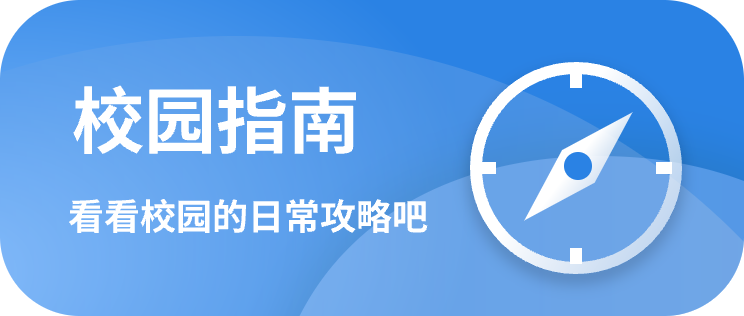
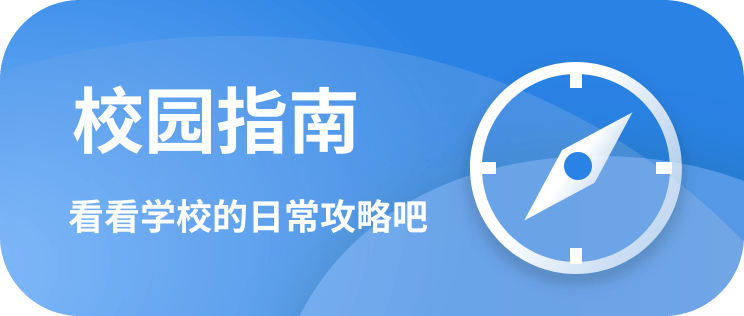
校园指南 新增和修改前，校验是否有内容；替换了按钮图片

Changed region(s): [[0.1855, 0.6266, 0.3091, 0.7405]]

diff --git a/地图参数获取工具/pages/map/map.js b/地图参数获取工具/pages/map/map.js
@@ -101,7 +101,7 @@ Page({
 
     this.mapCtx = wx.createMapContext('map')
     
-    var boundary = this.data.boundary
+    // var boundary = this.data.boundary
     // this.mapCtx.setBoundary({
     //   southwest: { //西南角
     //     latitude: boundary.southwest_latitude,
@@ -149,7 +149,8 @@ Page({
       return;
     }
     scale += 0.1;
-    console.log("地图缩放级别放大了0.1，现在是", scale.toFixed(2))
+    scale = parseFloat(scale.toFixed(2))
+    console.log("地图缩放级别放大了0.1，现在是", scale)
     this.setData({
       scale: scale
     });
@@ -162,7 +163,8 @@ Page({
       return;
     }
     scale -= 0.1;
-    console.log("地图缩放级别减小了0.1，现在是", scale.toFixed(2))
+    scale = parseFloat(scale.toFixed(2))
+    console.log("地图缩放级别减小了0.1，现在是", scale)
     this.setData({
       scale: scale
     });
@@ -411,7 +413,7 @@ Page({
     // 获取当前地图的视野范围
     this.mapCtx.getRegion({
       success(res) {
-        var boundary_data = "//西南角" + '\n' + "southwest_latitude: " + res.southwest.latitude.toFixed(6) + "," + '\n' + "southwest_longitude: " + res.southwest.longitude.toFixed(6) + "," + '\n' + "//东北角" + '\n' + "northeast_latitude: " + res.northeast.latitude.toFixed(6) + "," + '\n' + "northeast_longitude: " + res.northeast.longitude.toFixed(6) + ","
+        var boundary_data = "// 西南角" + '\n' + "southwest_latitude: " + res.southwest.latitude.toFixed(6) + "," + '\n' + "southwest_longitude: " + res.southwest.longitude.toFixed(6) + "," + '\n' + "// 东北角" + '\n' + "northeast_latitude: " + res.northeast.latitude.toFixed(6) + "," + '\n' + "northeast_longitude: " + res.northeast.longitude.toFixed(6) + ","
 
         // console.log("当前地图的边界" + '\n' + boundary_data)
 
@@ -424,12 +426,12 @@ Page({
     // 获取当前地图的缩放级别
     this.mapCtx.getScale({
       success(res) {
-        var scale_data = "scale: " + res.scale + ","
+        var scale_data = "scale: " + res.scale.toFixed(1) + ","
         // console.log("当前地图的缩放级别" + '\n' + scale_data)
         // console.log("\n")
 
         that.setData({
-          scale: res.scale,
+          // scale: res.scale,
           scale_data: scale_data
         });
       }

diff --git a/云开发项目/pages/admin/schoolguide-list/schoolguide/schoolguide.js b/云开发项目/pages/admin/schoolguide-list/schoolguide/schoolguide.js
@@ -195,7 +195,7 @@ Page({
     },
 
     addschoolguide() {
-      if (this.data.title != null && this.data.title != "") {
+      if (this.data.title != null && this.data.title != "" && this.data.content != null && this.data.content != "") {
         let keywords = this.data.keywords.map(item => {
           return item.name
         })
@@ -232,7 +232,7 @@ Page({
     },
   
     updateschoolguide() {
-      if (this.data.title != null && this.data.title != "") {
+      if (this.data.title != null && this.data.title != "" && this.data.content != null && this.data.content != "") {
         let keywords = this.data.keywords.map(item => {
           return item.name
         })

diff --git a/云开发项目/pages/school/guidance/guidance.js b/云开发项目/pages/school/guidance/guidance.js
@@ -75,13 +75,14 @@ Page({
   },
 
   search() {
-    console.log('search', this.data.inputValue)
+    let inputValue = this.data.inputValue || ''
+    console.log('search', inputValue)
     wx.showLoading({
       title: '搜索中',
     })
     var res = []
     for (const i of this.data.allWords) {
-      if (i.title.indexOf(this.data.inputValue) != -1 || i.content.indexOf(this.data.inputValue) != -1 || i.keywords.indexOf(this.data.inputValue) != -1) {
+      if (i.title.indexOf(inputValue) != -1 || i.content.indexOf(inputValue) != -1 || i.keywords.indexOf(inputValue) != -1) {
         res.push(i)
       }
     }

diff --git a/静态项目/pages/school/guidance/guidance.js b/静态项目/pages/school/guidance/guidance.js
@@ -59,13 +59,14 @@ Page({
 	},
 
 	search() {
-		console.log('search', this.data.inputValue)
+		let inputValue = this.data.inputValue || ''
+		console.log('search', inputValue)
 		wx.showLoading({
       title: '搜索中',
 		})
 		var res = []
 		for (const i of this.data.allWords) {
-      if (i.title.indexOf(this.data.inputValue) != -1 || i.content.indexOf(this.data.inputValue) != -1 || i.keywords.indexOf(this.data.inputValue) != -1) {
+      if (i.title.indexOf(inputValue) != -1 || i.content.indexOf(inputValue) != -1 || i.keywords.indexOf(inputValue) != -1) {
 				res.push(i)
 			}
 		}
